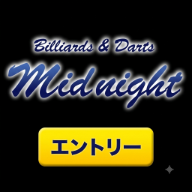
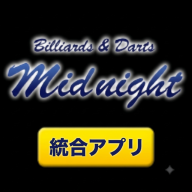
Add files via upload

diff --git a/index.html b/index.html
@@ -2,41 +2,377 @@
 <html lang="ja">
 <head>
   <meta charset="UTF-8">
-  <meta name="viewport" content="width=device-width, initial-scale=1.0, maximum-scale=1.0, user-scalable=no">
-  <title>ミッドナイト マンスリートーナメント エントリー状況</title>
+  <meta name="viewport" content="width=device-width, initial-scale=1.0, viewport-fit=cover">
+  <title>ミッドナイトアプリ</title>
 
   <!-- PWA 設定 -->
   <link rel="manifest" href="manifest.json">
   <meta name="theme-color" content="#10104a">
-  
+
   <!-- iOS (Safari) 向けPWA対応 -->
   <meta name="apple-mobile-web-app-capable" content="yes">
   <meta name="apple-mobile-web-app-status-bar-style" content="black-translucent">
   <meta name="apple-mobile-web-app-title" content="ミッドナイト">
   <link rel="apple-touch-icon" href="midnight-entry-192.png">
 
+  <link rel="preconnect" href="https://fonts.googleapis.com">
+  <link href="https://fonts.googleapis.com/css2?family=Noto+Sans+JP:wght@300;400;500;700&family=Rajdhani:wght@400;600;700&display=swap" rel="stylesheet">
+
   <style>
-    * { margin: 0; padding: 0; box-sizing: border-box; }
+    :root {
+      --bg-deep:        #0a0a2e;
+      --bg-mid:         #10104a;
+      --bg-card:        #141458;
+      --bg-card-hover:  #1a1a6e;
+      --bg-nav:         #1e1e7a;
+      --border:         #2a2a8a;
+      --border-accent:  #3a3ab0;
+      --yellow:         #ffee00;
+      --gold:           #f0c030;
+      --text-primary:   #f0f0ff;
+      --text-muted:     #c0c8e8;
+      --sidebar-w:      280px;
+      --safe-top:       env(safe-area-inset-top, 0px);
+      --safe-bottom:    env(safe-area-inset-bottom, 0px);
+    }
+    * { margin: 0; padding: 0; box-sizing: border-box; -webkit-tap-highlight-color: transparent; }
     html, body {
       width: 100%;
       height: 100%;
       overflow: hidden;
-      background-color: #0a0a2e;
+      background: var(--bg-deep);
+      color: var(--text-primary);
+      font-family: 'Noto Sans JP', sans-serif;
     }
-    iframe {
+    button { font-family: inherit; cursor: pointer; border: none; }
+
+    .app { display: flex; width: 100%; height: 100%; }
+
+    /* ---------- メニューボタン（共通） ---------- */
+    .menu-btn {
+      display: flex;
+      align-items: center;
+      gap: 14px;
       width: 100%;
-      height: 100%;
-      border: none;
+      padding: 16px 18px;
+      text-align: left;
+      color: var(--text-primary);
+      font-size: 15px;
+      font-weight: 500;
+      letter-spacing: 0.04em;
+      background: linear-gradient(160deg, var(--bg-card) 0%, #111150 100%);
+      border: 1px solid var(--border);
+      border-radius: 12px;
+      transition: transform .15s, border-color .15s, background .15s, box-shadow .15s, color .15s;
+    }
+    .menu-btn .ico {
+      flex: none;
+      width: 36px; height: 36px;
+      display: grid; place-items: center;
+      border-radius: 10px;
+      background: rgba(255,238,0,0.08);
+      border: 1px solid rgba(240,192,48,0.35);
+      font-size: 18px;
+    }
+    .menu-btn .label { flex: 1; line-height: 1.35; }
+    .menu-btn .sub {
       display: block;
+      font-family: 'Rajdhani', sans-serif;
+      font-size: 11px;
+      letter-spacing: 0.14em;
+      color: var(--text-muted);
+      font-weight: 600;
+    }
+    .menu-btn .arrow { color: var(--gold); opacity: .6; transition: transform .15s, opacity .15s; }
+    .menu-btn:hover, .menu-btn:focus-visible {
+      background: linear-gradient(160deg, var(--bg-card-hover) 0%, #16168a 100%);
+      border-color: var(--gold);
+      box-shadow: 0 0 18px rgba(240,192,48,0.25);
+      transform: translateY(-1px);
+      outline: none;
+    }
+    .menu-btn:hover .arrow { transform: translateX(3px); opacity: 1; }
+    .menu-btn:active { transform: translateY(0) scale(.99); }
+    .menu-btn.active {
+      color: var(--yellow);
+      border-color: var(--yellow);
+      background: linear-gradient(160deg, #20208a 0%, #1a1a7a 100%);
+      box-shadow: 0 0 20px rgba(255,238,0,0.22), inset 3px 0 0 var(--yellow);
+    }
+    .menu-btn.bonus { border-style: dashed; }
+    .menu-btn.bonus .ico { background: rgba(255,255,255,0.06); border-color: var(--border-accent); }
+
+    .menu-section {
+      font-family: 'Rajdhani', sans-serif;
+      font-size: 11px;
+      letter-spacing: 0.2em;
+      color: var(--text-muted);
+      margin: 6px 4px 0;
+      display: flex; align-items: center; gap: 10px;
+    }
+    .menu-section::after { content: ""; flex: 1; height: 1px; background: linear-gradient(90deg, var(--border-accent), transparent); }
+
+    .menu-list { display: flex; flex-direction: column; gap: 12px; }
+
+    /* ---------- サイドバー（PC） ---------- */
+    .sidebar {
+      flex: none;
+      width: var(--sidebar-w);
+      height: 100%;
+      display: flex;
+      flex-direction: column;
+      gap: 18px;
+      padding: 22px 18px;
+      overflow-y: auto;
+      background: linear-gradient(180deg, var(--bg-mid) 0%, var(--bg-deep) 100%);
+      border-right: 1px solid var(--border);
+      box-shadow: 4px 0 24px rgba(0,0,0,0.4);
+      z-index: 5;
+    }
+    .sidebar::before {
+      content: "";
+      display: block;
+      height: 2px;
+      margin: -22px -18px 0;
+      background: linear-gradient(90deg, transparent, var(--gold), transparent);
+    }
+    .brand {
+      background: #000;
+      border: 1px solid var(--border);
+      border-radius: 10px;
+      padding: 6px;
+      cursor: pointer;
+      transition: border-color .15s, box-shadow .15s;
+    }
+    .brand:hover { border-color: var(--gold); box-shadow: 0 0 16px rgba(240,192,48,0.25); }
+    .brand img { display: block; width: 100%; height: auto; border-radius: 6px; }
+    .sidebar-foot {
+      margin-top: auto;
+      font-family: 'Rajdhani', sans-serif;
+      font-size: 11px; letter-spacing: .16em;
+      color: var(--text-muted); text-align: center; opacity: .7;
+    }
+
+    /* ---------- メイン領域 ---------- */
+    .main { position: relative; flex: 1; min-width: 0; height: 100%; display: flex; flex-direction: column; }
+    .viewport { position: relative; flex: 1; min-height: 0; }
+
+    .home {
+      position: absolute; inset: 0;
+      display: flex; flex-direction: column; align-items: center; justify-content: center;
+      gap: 28px;
+      padding: 24px;
+      overflow-y: auto;
+      background:
+        radial-gradient(ellipse 70% 55% at 50% 40%, rgba(58,58,176,0.35) 0%, transparent 70%),
+        var(--bg-deep);
+    }
+    .home .hero {
+      width: min(560px, 90%);
+      background: #000;
+      border: 1px solid var(--border);
+      border-radius: 14px;
+      padding: 8px;
+      box-shadow: 0 10px 40px rgba(0,0,0,0.55), 0 0 40px rgba(58,58,176,0.25);
+    }
+    .home .hero img { display: block; width: 100%; height: auto; border-radius: 8px; }
+    .home .menu-list { display: none; width: min(420px, 100%); }
+
+    .frame-wrap { position: absolute; inset: 0; display: none; background: var(--bg-deep); }
+    .frame-wrap iframe { width: 100%; height: 100%; border: none; display: block; background: #fff; }
+    .loading {
+      position: absolute; inset: 0; display: grid; place-items: center;
+      font-family: 'Rajdhani', sans-serif; letter-spacing: .25em; color: var(--gold);
+      pointer-events: none; transition: opacity .3s;
+    }
+    .loading.done { opacity: 0; }
+
+    .topbar { display: none; }
+    .drawer, .scrim { display: none; }
+
+    /* ---------- スマホ ---------- */
+    @media (max-width: 820px) {
+      .sidebar { display: none; }
+
+      .home { justify-content: flex-start; padding-top: calc(28px + var(--safe-top)); padding-bottom: calc(28px + var(--safe-bottom)); }
+      .home .hero { margin-top: 4vh; }
+      .home .menu-list { display: flex; }
+
+      .app.in-page .topbar {
+        display: flex; align-items: center; gap: 12px; flex: none;
+        height: calc(52px + var(--safe-top));
+        padding: var(--safe-top) 12px 0;
+        background: linear-gradient(180deg, var(--bg-nav), var(--bg-mid));
+        border-bottom: 1px solid var(--border);
+        position: relative; z-index: 10;
+      }
+      .topbar::after {
+        content: ""; position: absolute; left: 0; right: 0; bottom: -1px; height: 1px;
+        background: linear-gradient(90deg, transparent, var(--gold), transparent);
+      }
+      .hamburger {
+        width: 40px; height: 40px; border-radius: 10px;
+        display: grid; place-items: center;
+        background: rgba(255,238,0,0.08);
+        border: 1px solid rgba(240,192,48,0.45);
+        transition: background .15s, border-color .15s;
+      }
+      .hamburger:active { background: rgba(255,238,0,0.2); border-color: var(--yellow); }
+      .hamburger span, .hamburger span::before, .hamburger span::after {
+        display: block; width: 18px; height: 2px; background: var(--yellow); border-radius: 2px; position: relative;
+        transition: transform .2s, background .2s;
+      }
+      .hamburger span::before, .hamburger span::after { content: ""; position: absolute; left: 0; }
+      .hamburger span::before { top: -6px; }
+      .hamburger span::after  { top: 6px; }
+      .topbar .title {
+        flex: 1; min-width: 0; font-size: 15px; font-weight: 700; letter-spacing: .05em;
+        white-space: nowrap; overflow: hidden; text-overflow: ellipsis;
+      }
+
+      .scrim {
+        display: block; position: fixed; inset: 0; z-index: 20;
+        background: rgba(0,0,10,0.6); opacity: 0; pointer-events: none; transition: opacity .25s;
+      }
+      .drawer {
+        display: flex; flex-direction: column; gap: 14px;
+        position: fixed; top: 0; left: 0; bottom: 0; z-index: 30;
+        width: min(310px, 84vw);
+        padding: calc(18px + var(--safe-top)) 16px calc(18px + var(--safe-bottom));
+        overflow-y: auto;
+        background: linear-gradient(180deg, var(--bg-mid), var(--bg-deep));
+        border-right: 1px solid var(--border-accent);
+        box-shadow: 8px 0 30px rgba(0,0,0,0.6);
+        transform: translateX(-102%); transition: transform .25s ease;
+      }
+      .drawer .brand { cursor: default; }
+      .app.menu-open .drawer { transform: translateX(0); }
+      .app.menu-open .scrim { opacity: 1; pointer-events: auto; }
+    }
+
+    @media (prefers-reduced-motion: reduce) {
+      * { transition: none !important; }
     }
   </style>
 </head>
 <body>
+  <div class="app" id="app">
 
-  <!-- GASのWebアプリURLを指定してください -->
-  <iframe src="https://script.google.com/macros/s/AKfycbwy2sLir4dqg5CTtcIMMV2opq-Zjuhue8WOnj5p-OtOuyPJN5__WHZRuKSXd3bzyKXvUg/exec" id="app-frame" allow="geolocation; microphone; camera"></iframe>
+    <!-- PC: 左メニューカラム -->
+    <aside class="sidebar" id="sidebar">
+      <div class="brand" data-home title="ホームへ"><img src="midhead.gif" alt="ミッドナイト"></div>
+      <div class="menu-section">MENU</div>
+      <nav class="menu-list" data-menu></nav>
+      <div class="sidebar-foot">MIDNIGHT MONTHLY</div>
+    </aside>
+
+    <div class="main">
+      <!-- スマホ: ページ表示中のみ出るトップバー -->
+      <header class="topbar">
+        <button class="hamburger" id="menuToggle" aria-label="メニューを開く"><span></span></button>
+        <div class="title" id="topTitle"></div>
+      </header>
+
+      <div class="viewport">
+        <!-- ホーム（PC: gif中央 / スマホ: gif+ボタン） -->
+        <section class="home" id="home">
+          <div class="hero"><img src="midhead.gif" alt="ミッドナイト"></div>
+          <nav class="menu-list" data-menu></nav>
+        </section>
+
+        <!-- リンク先表示 -->
+        <section class="frame-wrap" id="frameWrap">
+          <div class="loading" id="loading">LOADING...</div>
+          <iframe id="app-frame" title="コンテンツ" allow="geolocation; microphone; camera"></iframe>
+        </section>
+      </div>
+    </div>
+
+    <!-- スマホ: ドロワーメニュー -->
+    <div class="scrim" id="scrim"></div>
+    <aside class="drawer" id="drawer">
+      <div class="brand" data-home title="ホームへ"><img src="midhead.gif" alt="ミッドナイト"></div>
+      <div class="menu-section">MENU</div>
+      <nav class="menu-list" data-menu data-drawer></nav>
+    </aside>
+  </div>
 
   <script>
+    const LINKS = [
+      { id: 'entry',   icon: '📋', label: 'エントリー関連',       sub: 'ENTRY STATUS',
+        url: 'https://script.google.com/macros/s/AKfycbwy2sLir4dqg5CTtcIMMV2opq-Zjuhue8WOnj5p-OtOuyPJN5__WHZRuKSXd3bzyKXvUg/exec' },
+      { id: 'monthly', icon: '🏆', label: 'マンスリー進行状況',   sub: 'MONTHLY PROGRESS',
+        url: 'https://script.google.com/macros/s/AKfycbxgl_hidE-k3jRyowCzwh8nIZaIZSZEimS23KVB_OfqxTH5kKZ6CsyWdIAJUMVFTN-u/exec?page=viewer' },
+      { id: 'qr',      icon: '🔳', label: 'QRコード生成',             sub: 'QR GENERATOR',
+        url: 'https://rikiworter1690.github.io/midnight/qr_code_generator.html' },
+      { id: 'mico',    icon: '🎁', label: 'おまけ：mico PAエントリー関連', sub: 'BONUS / MICO PA', bonus: true,
+        url: 'https://script.google.com/macros/s/AKfycbw2ALdupMg_A_dOl7TnVALyTlACAqwW3_uohzYRC5qWZFcXzkehPKITx3wMKp6Ge2Xj/exec' }
+    ];
+
+    const $ = (s) => document.querySelector(s);
+    const app = $('#app'), frame = $('#app-frame'), frameWrap = $('#frameWrap'),
+          home = $('#home'), loading = $('#loading'), topTitle = $('#topTitle');
+
+    // メニューボタン生成（サイドバー / ホーム / ドロワー）
+    document.querySelectorAll('[data-menu]').forEach((nav) => {
+      LINKS.forEach((l) => {
+        const b = document.createElement('button');
+        b.className = 'menu-btn' + (l.bonus ? ' bonus' : '');
+        b.dataset.id = l.id;
+        b.innerHTML = `<span class="ico">${l.icon}</span>
+          <span class="label">${l.label}<span class="sub">${l.sub}</span></span>
+          <span class="arrow">›</span>`;
+        b.addEventListener('click', () => open(l.id));
+        nav.appendChild(b);
+      });
+      if (nav.hasAttribute('data-drawer')) {
+        const h = document.createElement('button');
+        h.className = 'menu-btn';
+        h.innerHTML = `<span class="ico">🏠</span><span class="label">ホーム<span class="sub">HOME</span></span><span class="arrow">›</span>`;
+        h.addEventListener('click', goHome);
+        nav.prepend(h);
+      }
+    });
+    document.querySelectorAll('[data-home]').forEach((el) => el.addEventListener('click', goHome));
+
+    function setMenu(openState) {
+      app.classList.toggle('menu-open', openState);
+      $('#menuToggle').setAttribute('aria-label', openState ? 'メニューを閉じる' : 'メニューを開く');
+    }
+
+    function open(id) {
+      const l = LINKS.find((x) => x.id === id);
+      if (!l) return;
+      setMenu(false);
+      loading.classList.remove('done');
+      frame.onload = () => loading.classList.add('done');
+      if (frame.dataset.id !== id) { frame.src = l.url; frame.dataset.id = id; }
+      else loading.classList.add('done');
+      frameWrap.style.display = 'block';
+      home.style.display = 'none';
+      app.classList.add('in-page');
+      topTitle.textContent = l.label;
+      document.querySelectorAll('.menu-btn').forEach((b) => b.classList.toggle('active', b.dataset.id === id));
+      history.replaceState(null, '', '#' + id);
+    }
+
+    function goHome() {
+      setMenu(false);
+      frameWrap.style.display = 'none';
+      home.style.display = '';
+      app.classList.remove('in-page');
+      frame.removeAttribute('src'); delete frame.dataset.id;
+      document.querySelectorAll('.menu-btn').forEach((b) => b.classList.remove('active'));
+      history.replaceState(null, '', location.pathname);
+    }
+
+    $('#menuToggle').addEventListener('click', () => setMenu(!app.classList.contains('menu-open')));
+    $('#scrim').addEventListener('click', () => setMenu(false));
+    document.addEventListener('keydown', (e) => { if (e.key === 'Escape') setMenu(false); });
+
+    // ハッシュ指定で直接開く（例: index.html#qr）
+    if (location.hash) open(location.hash.slice(1));
+
     // Service Worker の登録
     if ('serviceWorker' in navigator) {
       window.addEventListener('load', () => {
